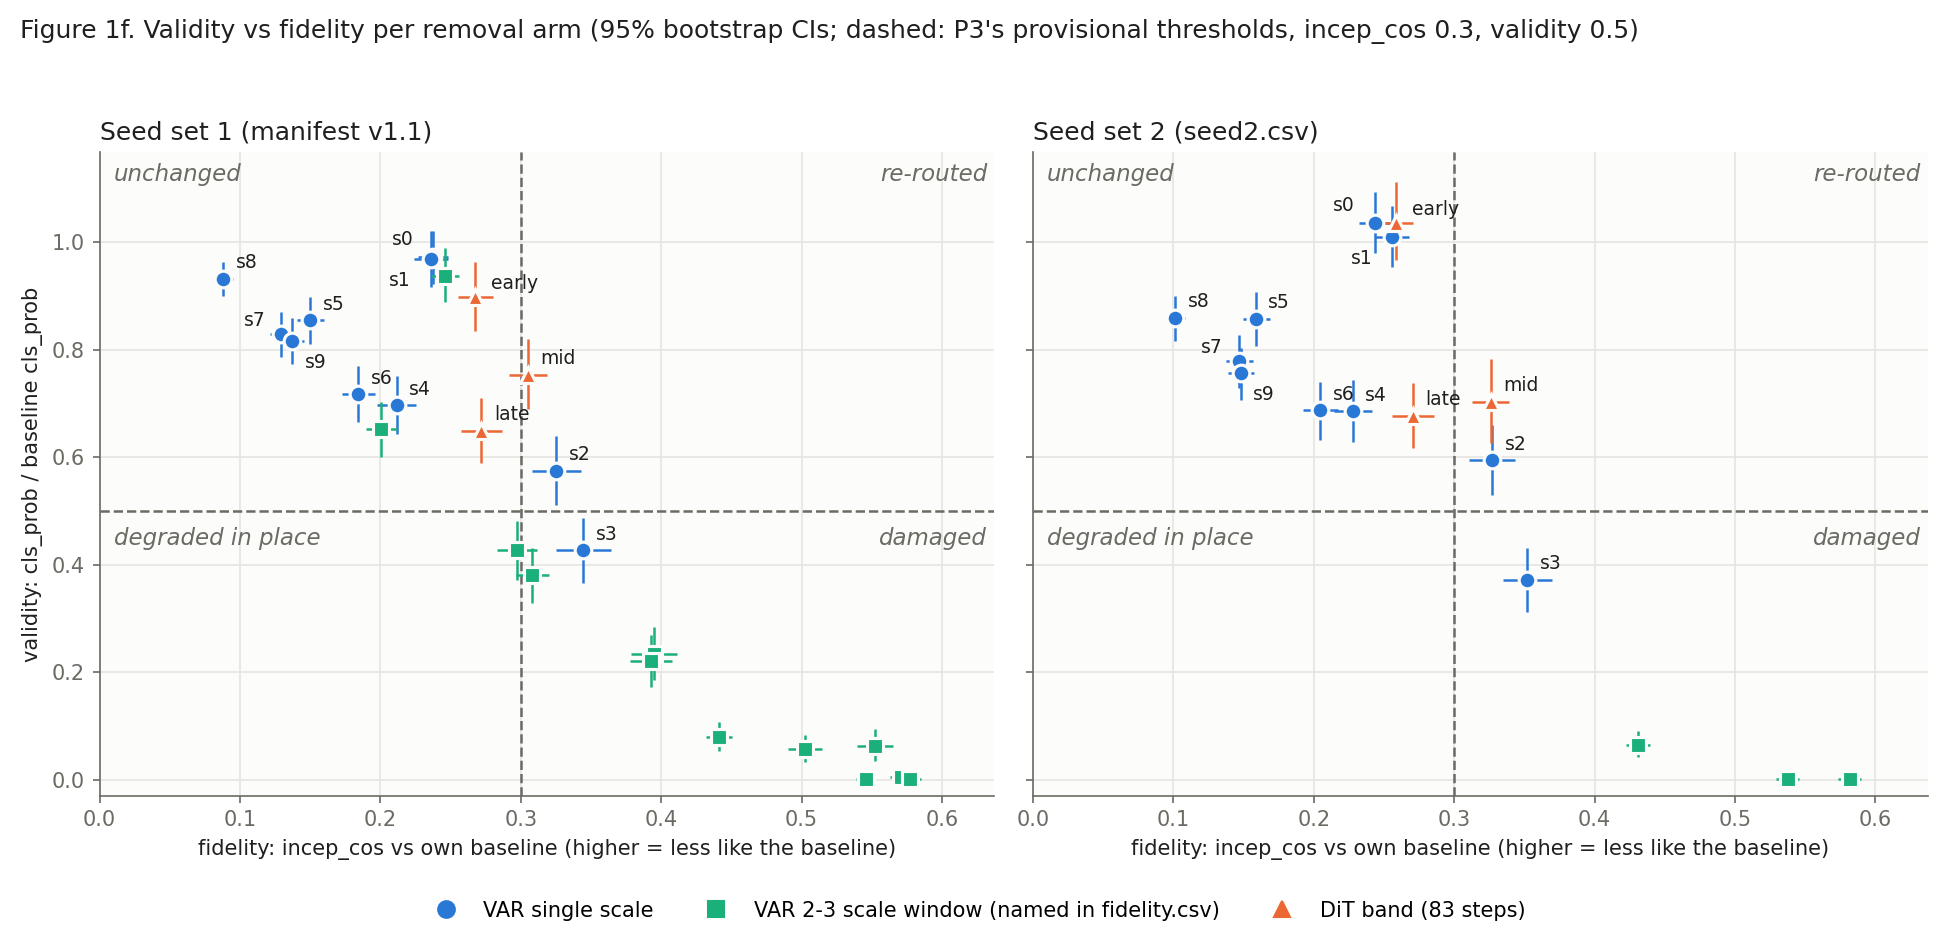
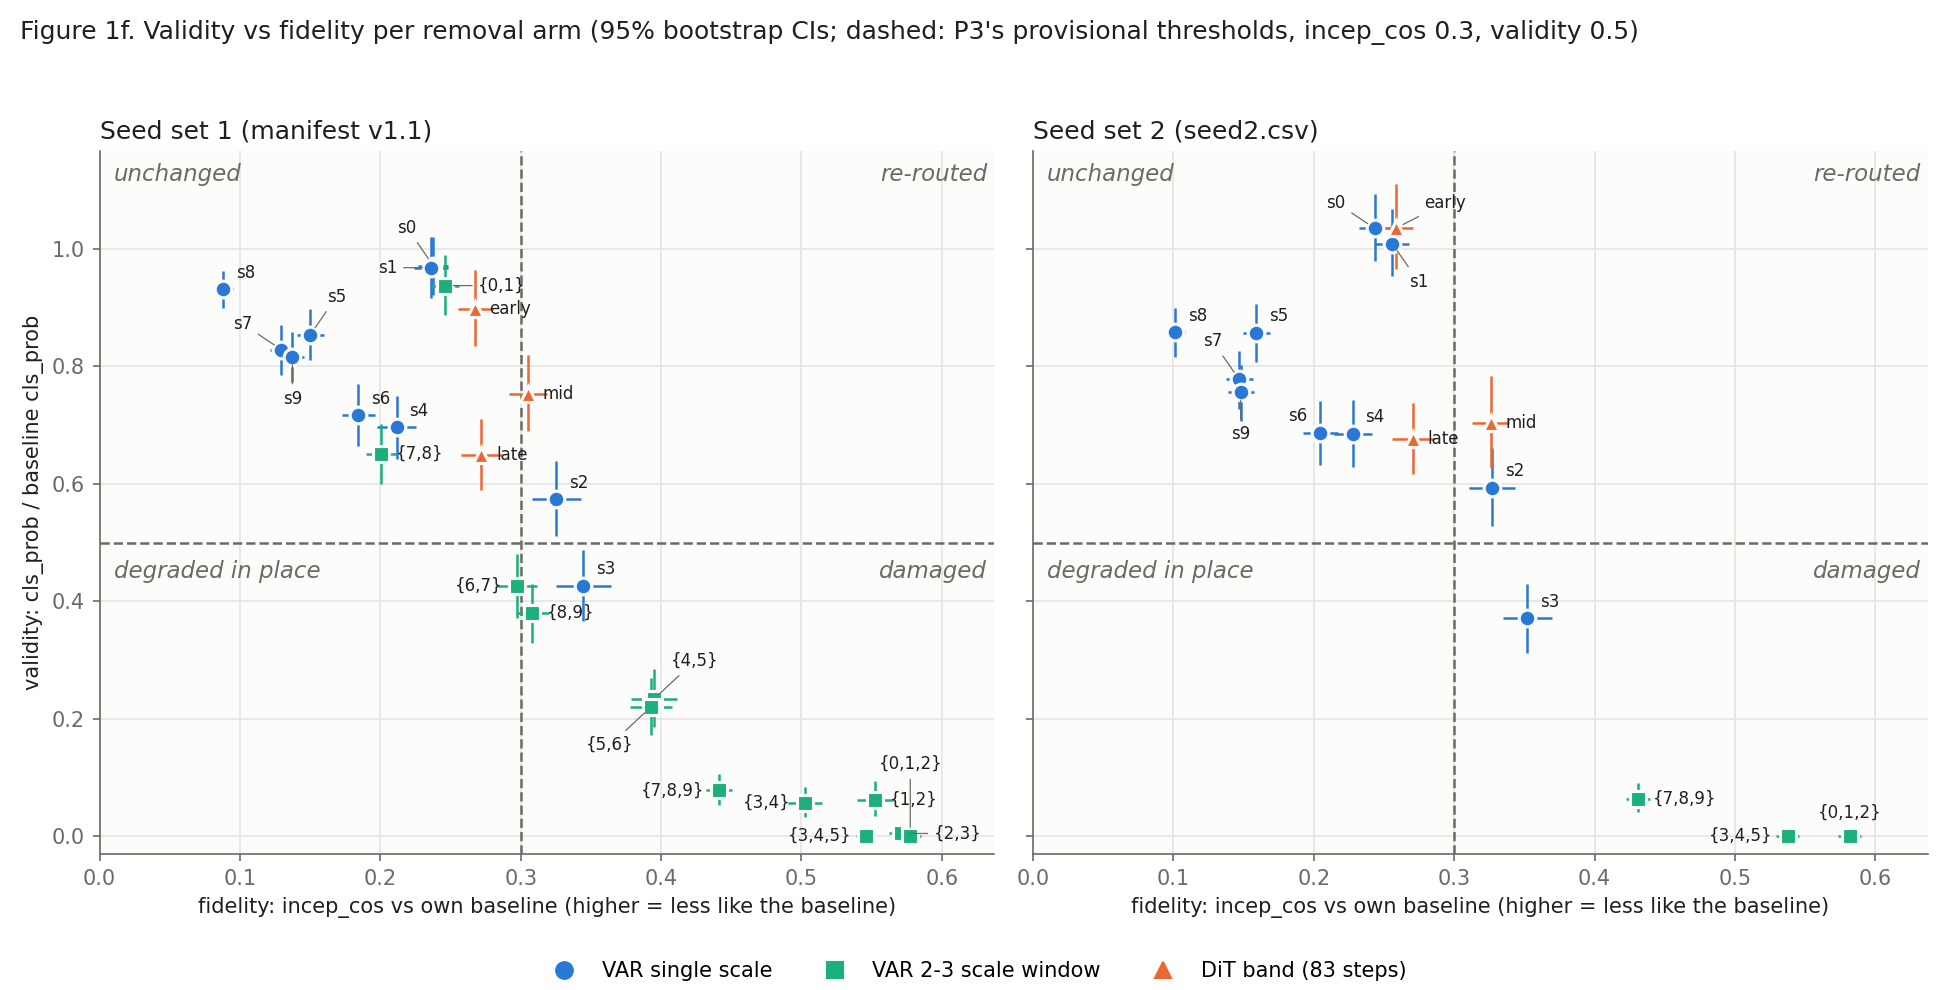
P1 fidelity: figure labels + leader lines, mismatched-pairing check, README wording (P3 review)

diff --git a/lanes/p1/fidelity.py b/lanes/p1/fidelity.py
@@ -27,10 +27,12 @@ sys.path.insert(0, str(REPO))
 
 from lanes.p1.summarize import N_BOOT, SEED, _removal, _write, job_dir, load_job  # noqa: E402
 from lanes.p2.analyze import kid  # noqa: E402
-from lanes.p3.p3_metrics import FIDELITY_LOW, KID_HIGH, VALIDITY_LOW, classify, fidelity_incep  # noqa: E402
+from lanes.p3.p3_metrics import (FIDELITY_LOW, KID_HIGH, VALIDITY_LOW, classify, cosine_distance,  # noqa: E402
+                                 fidelity_incep, load_features)
 
 JOBS = {"25893211": 1, "25893212": 1, "25893213": 1, "25916920": 1, "25916921": 1,
         "26203723": 2, "26203724": 2, "26203725": 2}
+SHIFT = 32  # mismatched-pairing check: one class block (32 seeds per class)
 CELLS = ("unchanged", "re-routed", "degraded-in-place", "damaged")
 THRESHOLDS = (f"P3 provisional: FIDELITY_LOW={FIDELITY_LOW}, VALIDITY_LOW={VALIDITY_LOW}, "
               f"KID_HIGH={KID_HIGH} (lanes/p3/p3_metrics.py)")
@@ -57,8 +59,11 @@ def runs_of(job: Path):
 
 
 def sanity(jobs) -> None:
-    """Each job's baseline against itself must give incep_cos 0 for every image."""
-    print("sanity: baseline vs itself (lanes.p3.p3_metrics.fidelity_incep)")
+    """Each job's baseline against itself must give incep_cos 0 for every image; as a reference, each baseline
+    image paired with a DIFFERENT baseline image (rows shifted by SHIFT, so class and seed both differ) gives
+    the incep_cos of unrelated images."""
+    print("sanity: baseline vs itself (lanes.p3.p3_metrics.fidelity_incep), and mismatched baseline pairs "
+          f"(rows shifted by {SHIFT}, cosine_distance)")
     worst = 0.0
     for j in jobs:
         job = job_dir(j)
@@ -66,11 +71,25 @@ def sanity(jobs) -> None:
         for d in base:
             v = np.array([r["value"] for r in fidelity_incep(d, d)])
             worst = max(worst, float(np.max(np.abs(v))))
-            print(f"  {j} {d.parent.name}/{d.name}: n {len(v)}, max |incep_cos| {np.max(np.abs(v)):.2e}, "
-                  f"all exactly 0: {bool(np.all(v == 0))}")
+            m, lo, hi = mismatched(d)
+            print(f"  {j} {d.parent.name}/{d.name}: n {len(v)}, self max |incep_cos| {np.max(np.abs(v)):.2e} "
+                  f"(all exactly 0: {bool(np.all(v == 0))}); mismatched mean {m:.4f} [{lo:.4f}, {hi:.4f}]")
     if worst > 1e-5:
         raise SystemExit(f"FAIL: a baseline is not at incep_cos 0 against itself (max {worst:.2e})")
     print(f"  PASS: max |incep_cos| over all baselines {worst:.2e}")
+
+
+def mismatched(base_dir: Path):
+    """Mean incep_cos (95% bootstrap CI) of baseline image i vs baseline image i+SHIFT (wrapping), keys sorted
+    by (class_id, seed). With 32 seeds per class the partner has another class and another seed."""
+    feats = load_features(base_dir)
+    keys = sorted(feats)
+    part = [keys[(i + SHIFT) % len(keys)] for i in range(len(keys))]
+    if any(a[0] == b[0] or a[1] == b[1] for a, b in zip(keys, part)):
+        raise SystemExit(f"ERROR: {base_dir}: a mismatched pair shares its class or seed")
+    c = np.array([cosine_distance(feats[a], feats[b]) for a, b in zip(keys, part)])
+    bc = c[np.random.default_rng(SEED).integers(0, len(c), size=(N_BOOT, len(c)))].mean(axis=1)
+    return float(c.mean()), float(np.percentile(bc, 2.5)), float(np.percentile(bc, 97.5))
 
 
 def arm_row(j: str, r, run_dir, base_dir, prob, prob_base, fa, fb) -> dict:
@@ -109,6 +128,57 @@ def label(row) -> str:
     return f"s{s[0]}" if len(s) == 1 else "{" + ",".join(s) + "}"
 
 
+def place_labels(fig, ax, pts, ink, muted) -> None:
+    """Greedy label placement in display space: each label goes to the nearest candidate offset whose box
+    overlaps no marker, no placed label, no quadrant name and stays inside the axes; labels placed away from
+    their marker, or whose marker overlaps another marker, get a thin leader line. Most crowded points are
+    placed first."""
+    from matplotlib.transforms import Bbox
+
+    rend = fig.canvas.get_renderer()
+    px = fig.dpi / 72
+    disp = [ax.transData.transform((x, y)) for _, x, y in pts]
+    r_mk = 5.5 * px  # marker half-size (ms 8 plus its ring) in pixels
+    markers = [Bbox.from_extents(u - r_mk, v - r_mk, u + r_mk, v + r_mk) for u, v in disp]
+    taken = [t.get_window_extent(rend).expanded(1.05, 1.2) for t in ax.texts]  # quadrant names
+    inside = ax.get_window_extent(rend)
+    crowd = [sum(np.hypot(*(d - e)) < 40 * px for e in disp) for d in disp]
+    cands = [(rad * np.cos(t), rad * np.sin(t)) for rad in (7, 11, 16, 22, 30, 40, 52, 66)
+             for t in np.deg2rad((30, 150, 210, 330, 0, 180, 90, 270, 60, 120, 240, 300))]
+    for i in sorted(range(len(pts)), key=lambda i: -crowd[i]):
+        name, x, y = pts[i]
+        near = [disp[k] for k, m in enumerate(markers) if k != i and markers[i].overlaps(m)]
+        order = cands
+        if near:  # stacked marker: leader line, label on the side away from the markers it overlaps
+            away = disp[i] - np.mean(near, axis=0)
+            away = away / (np.hypot(*away) or 1)
+            order = sorted((c for c in cands if np.hypot(*c) > 12),
+                           key=lambda c: (round(np.hypot(*c)), -float(np.dot(c, away)) / np.hypot(*c)))
+        best = None
+        for dx, dy in order:
+            ha = "left" if dx > 0.5 else "right" if dx < -0.5 else "center"
+            va = "bottom" if dy > 0.5 else "top" if dy < -0.5 else "center"
+            t = ax.annotate(name, (x, y), xytext=(dx, dy), textcoords="offset points", ha=ha, va=va,
+                            fontsize=8, color=ink, zorder=5)
+            bb = t.get_window_extent(rend).expanded(1.08, 1.15)
+            ok = (inside.contains(bb.x0, bb.y0) and inside.contains(bb.x1, bb.y1)
+                  and not any(bb.overlaps(o) for o in taken)
+                  and not any(bb.overlaps(m) for m in markers))
+            if ok:
+                best = (t, bb, np.hypot(dx, dy))
+                break
+            t.remove()
+        if best is None:
+            raise SystemExit(f"ERROR: no free place for label {name}")
+        t, bb, rad = best
+        taken.append(bb)
+        if rad > 12:
+            t.remove()
+            ax.annotate(name, (x, y), xytext=t.xyann, textcoords="offset points", ha=t.get_ha(),
+                        va=t.get_va(), fontsize=8, color=ink, zorder=5,
+                        arrowprops=dict(arrowstyle="-", color=muted, lw=0.6, shrinkA=1, shrinkB=4))
+
+
 def plot(rows, path: Path) -> None:
     import matplotlib
     matplotlib.use("Agg")
@@ -117,19 +187,19 @@ def plot(rows, path: Path) -> None:
     ink, muted, grid = "#1f1f1e", "#6b6a63", "#e6e5e0"
     kinds = {  # categorical slots 1-3 (validated), plus a marker shape each
         "VAR single scale": ("#2a78d6", "o"),
-        "VAR 2-3 scale window (named in fidelity.csv)": ("#1baf7a", "s"),
+        "VAR 2-3 scale window": ("#1baf7a", "s"),
         "DiT band (83 steps)": ("#eb6834", "^"),
     }
 
     def kind(r):
         if r["model"] == "dit":
             return "DiT band (83 steps)"
-        return "VAR single scale" if int(r["n_removed"]) == 1 else "VAR 2-3 scale window (named in fidelity.csv)"
+        return "VAR single scale" if int(r["n_removed"]) == 1 else "VAR 2-3 scale window"
 
     xmax = max(r["incep_cos_hi"] for r in rows) * 1.08
     ymax = max(1.12, max(r["validity_ratio_hi"] for r in rows) * 1.05)
-    offsets = {"s0": (-20, 6), "s1": (-20, -13), "s7": (-18, 4), "s9": (6, -13), "early": (8, 4)}  # no overlaps
-    fig, axes = plt.subplots(1, 2, figsize=(13, 6.2), sharex=True, sharey=True)
+    fig, axes = plt.subplots(1, 2, figsize=(13, 6.6), sharex=True, sharey=True, dpi=150)
+    pts = {}
     for ax, s in zip(axes, (1, 2)):
         ax.set_facecolor("#fcfcfb")
         for v in ("top", "right"):
@@ -145,6 +215,7 @@ def plot(rows, path: Path) -> None:
                                   ("degraded in place", 0.01, VALIDITY_LOW - 0.03, "left", "top"),
                                   ("damaged", xmax - 0.005, VALIDITY_LOW - 0.03, "right", "top")):
             ax.text(x, y, txt, ha=ha, va=va, fontsize=11, color=muted, style="italic")
+        pts[ax] = []
         for r in (r for r in rows if r["seed_set"] == s):
             colour, marker = kinds[kind(r)]
             x, y = r["incep_cos"], r["validity_ratio"]
@@ -152,9 +223,7 @@ def plot(rows, path: Path) -> None:
                         yerr=[[y - r["validity_ratio_lo"]], [r["validity_ratio_hi"] - y]],
                         fmt=marker, ms=8, color=colour, mec="#fcfcfb", mew=1.5, elinewidth=1.2, capsize=0,
                         zorder=3)
-            if kind(r) != "VAR 2-3 scale window (named in fidelity.csv)":
-                ax.annotate(label(r), (x, y), xytext=offsets.get(label(r), (6, 5)), textcoords="offset points",
-                            fontsize=9, color=ink)
+            pts[ax].append((label(r), x, y))
         ax.set_xlim(0, xmax)
         ax.set_ylim(-0.03, ymax)
         ax.set_title(f"Seed set {s}" + (" (manifest v1.1)" if s == 1 else " (seed2.csv)"),
@@ -169,15 +238,18 @@ def plot(rows, path: Path) -> None:
                  f"thresholds, incep_cos {FIDELITY_LOW}, validity {VALIDITY_LOW})", x=0.01, ha="left",
                  fontsize=12, color=ink)
     fig.tight_layout(rect=(0, 0.05, 1, 0.95))
+    for ax in axes:  # after tight_layout, so display positions are final
+        place_labels(fig, ax, pts[ax], ink, muted)
     fig.savefig(path, dpi=150, facecolor="white")
     print(f"wrote {path.relative_to(REPO)}")
 
 
 def main(argv=None) -> None:
     argv = sys.argv[1:] if argv is None else argv
-    for out in (OUT_CSV, OUT_FIG):
-        if out.exists():
-            raise SystemExit(f"ERROR: {out.relative_to(REPO)} exists; this script only writes new files")
+    if "--sanity-only" not in argv:
+        for out in (OUT_CSV, OUT_FIG):
+            if out.exists():
+                raise SystemExit(f"ERROR: {out.relative_to(REPO)} exists; this script only writes new files")
     sanity(JOBS)
     if "--sanity-only" in argv:
         return

diff --git a/lanes/p1/README.md b/lanes/p1/README.md
@@ -574,11 +574,24 @@ valid image. The two axes together separate "re-routed" from "damaged".
   that image)` without KID, as `lanes/p2/analyze.py` does per image.
 - `outcome_run` is the whole arm's cell, using the means and the arm's KID. KID > 0.005 counts as low validity.
 - **The thresholds are P3's provisional values:** `FIDELITY_LOW` 0.30, `VALIDITY_LOW` 0.50, `KID_HIGH`
-  0.005. Each row of the CSV states this.
+  0.005. Each row of the CSV states this. For scale, two unrelated images sit at about 0.55 (the
+  mismatched-pairing check below), so 0.30 is a little over half of that distance.
 
-**Sanity check** (printed on every run): each baseline against itself gives `incep_cos` of at most
-1.2e-07 for all 224 images, in all 8 jobs. That is 0 to float32 precision: the features are stored as
-float32.
+**Sanity checks** (printed on every run; `--sanity-only` runs just these):
+- **Self-pairing:** each baseline against itself gives `incep_cos` of at most 1.2e-07 for all 224 images,
+  in all 8 jobs. That is 0 to float32 precision: the features are stored as float32.
+- **Mismatched pairing:** each baseline image paired with a different baseline image (rows sorted by
+  (class_id, seed) and shifted by 32, so every pair differs in both class and seed) gives the
+  `incep_cos` of unrelated images. Mean with a 95% bootstrap CI over the 224 pairs:
+
+  | Seed set | VAR baseline | DiT baseline |
+  |---|---|---|
+  | 1 | 0.563 [0.556, 0.571] | 0.557 [0.549, 0.565] |
+  | 2 | 0.548 [0.540, 0.555] | 0.553 [0.544, 0.561] |
+
+  So unrelated images sit at 0.55-0.56, slightly above the ~0.52 P3 expected. The strongest removals are
+  as far from their baseline as an unrelated image: {0,1,2} 0.578 (seed set 1) and 0.582 (seed set 2),
+  {2,3} 0.571, {1,2} 0.553, {3,4,5} 0.546 and 0.538.
 
 ```bash
 python3 -B -m lanes.p1.fidelity     # ~20 s on the laptop; needs numpy, matplotlib
@@ -591,8 +604,9 @@ Outputs:
 ![Figure 1f](results/fig1f_fidelity.png)
 
 *Figure 1f. Validity vs fidelity per removal arm, seed set 1 (left) and seed set 2 (right), with 95%
-bootstrap CIs. Dashed lines are P3's provisional thresholds. The VAR window and group points are named in
-`fidelity.csv`.*
+bootstrap CIs. Dashed lines are P3's provisional thresholds. Every point is labelled (s = single VAR
+scale, {..} = VAR window or group, early/mid/late = DiT band); a thin leader line joins a label to its point
+when the point overlaps another marker or the label had to move away from it.*
 
 **Observations** (`results/fidelity.csv`):
 - **Group removals are damage, not re-routing.**
@@ -604,8 +618,9 @@ bootstrap CIs. Dashed lines are P3's provisional thresholds. The VAR window and 
   - Per image, 68-77% are unchanged, 14-20% re-routed and 7-9% damaged.
   - Scale 3, by contrast, puts 53% (seed 1) and 57% (seed 2) of images in "damaged".
 - **The late single scales and DiT differ in which cell they move images to.**
-  - Late VAR scales: scales 5, 7, 8 and 9 have the lowest mean `incep_cos` (0.088-0.159). Images that leave
-    "unchanged" go mostly to "degraded in place" (10-28%), not to "re-routed" (0-1.3%).
+  - Late VAR scales 5, 7, 8 and 9 are mostly unchanged: 68-89% of images (78-89% on seed set 1, 68-81% on
+    seed set 2), with the lowest mean `incep_cos` (0.088-0.159). The rest are mostly degraded in place
+    (10-28%); almost none are re-routed (0-1.3%).
   - DiT early: mostly unchanged (59% and 66%), with 21% re-routed on both seed sets.
   - DiT mid and late: 27-35% and 29% of images are damaged.
   - DiT mid (`incep_cos` 0.305 / 0.326, validity 0.753 / 0.703) and VAR scale 2 sit in the re-routed
